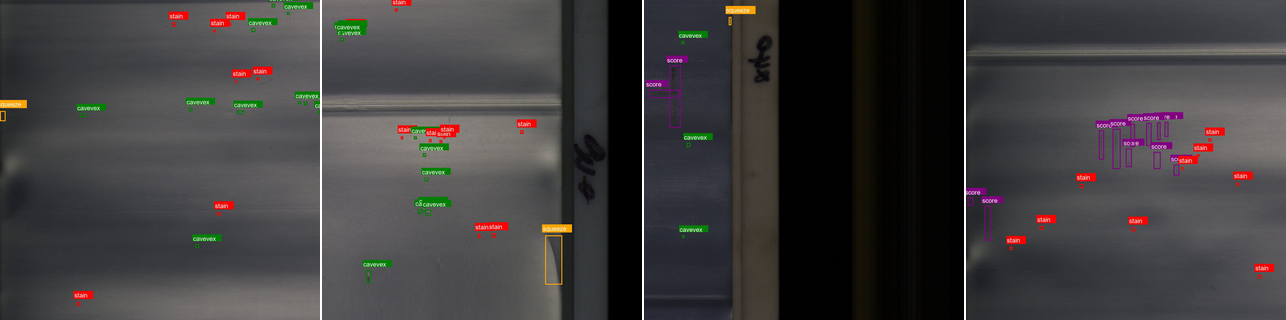
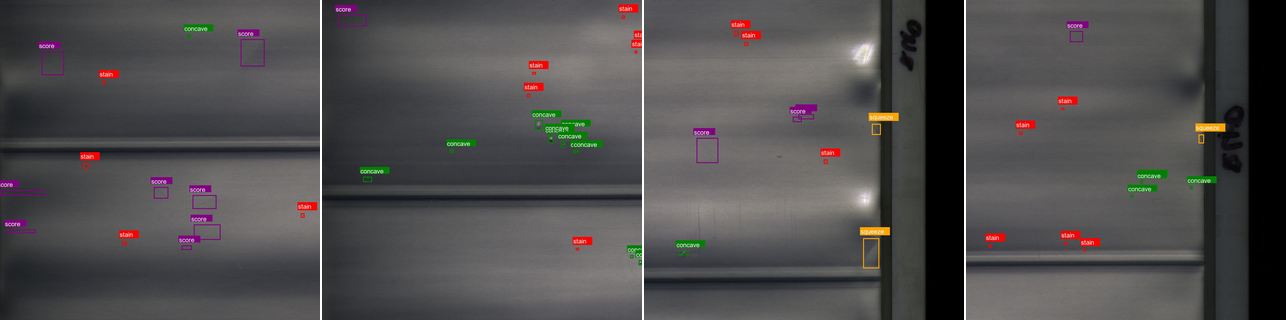
update readme and label name

diff --git a/README.md b/README.md
@@ -2,26 +2,29 @@
 
 Zhenyuan Lin, Danhua Liu*, Lai Wei, Yubo Dong
 
+## PBD
+- Plastic Bottle Body : 500 images with four common defect types (stain, concave, score and squeeze).
+- Plastic Bottle Shoulder : 3,463 images with two common defect types (stain and no_burr) and one bottle neck positioning marker (pipe).
+
 <img src="resources/combined_image_body.png">
 
 Figure 1: some sample images from the Plastic
-Bottle Body dataset along with their corresponding annotations. It includes examples of various defect types such as
-stain, cavevex, score, and squeeze.
+Bottle Body dataset along with their corresponding annotations
+
+<img src="resources/size_distribution_body.png">
+
+Figure 2: Distribution of defect annotation features for the Plastic Bottle Body dataset
 
 <img src="resources/combined_image_shoulder.png">
 
-Figure 2: some sample images images from the Plastic Bottle
-Shoulder dataset along with their corresponding annotations.
-It includes examples of defects such as stain and no-pifeng(burr), as well
-as the pipe positioning annotation.
-
-<img src="resources/size_distribution_body.png">
-Figure 3: Distribution of defect annotation features for the Plastic Bottle Body dataset
+Figure 3: some sample images images from the Plastic Bottle
+Shoulder dataset along with their corresponding annotations
 
 <img src="resources/size_distribution_shoulder.png">
 Figure 4: Distribution of defect annotation features for the Plastic Bottle Shoulder dataset
 
-
+## Usage
+This dataset is allowed for **academic purposes only**.
 
 ## Code Configuration
 This repository is modified from MMDetection. The original MMDetection repository can be found at [https://github.com/open-mmlab/mmdetection](https://github.com/open-mmlab/mmdetection).
@@ -34,8 +37,9 @@ conda create -n PBD python=3.8
 ```
 - Pytorch
 ```bash
+# conda
 conda install pytorch==2.0.0 torchvision==0.15.0 torchaudio==2.0.0 pytorch-cuda=11.7 -c pytorch -c nvidia
-# or
+# or pip
 pip install torch==2.0.0 torchvision==0.15.1 torchaudio==2.0.1
 ```
 - Other Extra Dependencies
@@ -48,15 +52,8 @@ pip install -r requirements.txt
 pip install -v -e .  # or "python setup.py develop"
 ```
 ### 2. Prepare Dataset
-The PBD Dataset can be downloaded from the Baidu Cloud link,Google Drive Link and Quark Cloud Link:
+The PBD Dataset can be downloaded from the [Baidu Cloud](https://pan.baidu.com/s/1-xLSYv7BEUVjskto7yn0Dg?pwd=6666) | [Google Drive](https://drive.google.com/file/d/1tJjobvwOaQk8iHmFNYSYLYyO0G9is6ht/view?usp=sharing) | [Quark Cloud](https://pan.quark.cn/s/9d717abaf299)
 
-Baidu Cloud Link : https://pan.baidu.com/s/1MdaGlw1uC1xE0s7FRQ3zTw
-Extraction code: 6666.
-
-Google Drive Link : https://drive.google.com/file/d/1sJWv5F3UEuZinFIr9QyG9UT-W0QdOuAy/view?usp=drive_link
-
-
-Quark Cloud Link : https://pan.quark.cn/s/db48ef83eb86
 
 After downloading and extracting the dataset, place it in the PBD/dataset folder.
 
@@ -71,3 +68,14 @@ python tools/train.py {config_file}
 ```
 ### 4. Acknowledgment
 This work is forked from MMdetection Repository https://github.com/open-mmlab/mmdetection
+
+## Citation
+
+```
+@inproceedings{PBD,
+  author    = {Zhenyuan Lin,Danhua Liu,Lai Wei Yubo Dong}
+  title     = {PBD: Plastic Bottle Dataset for Defect Detection}
+  booktitle = {ICASSP}
+  year      = {2025}
+}
+```
